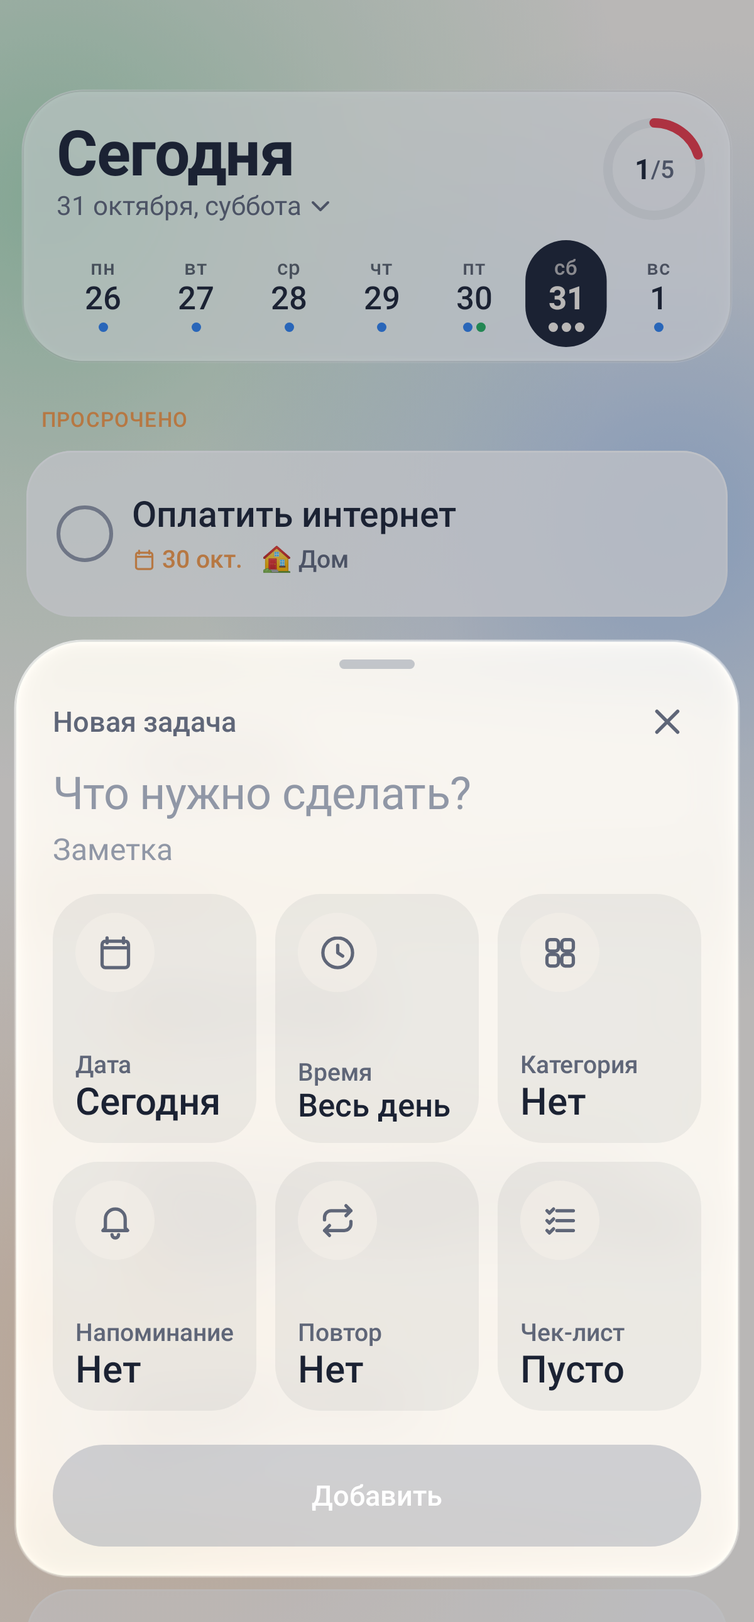
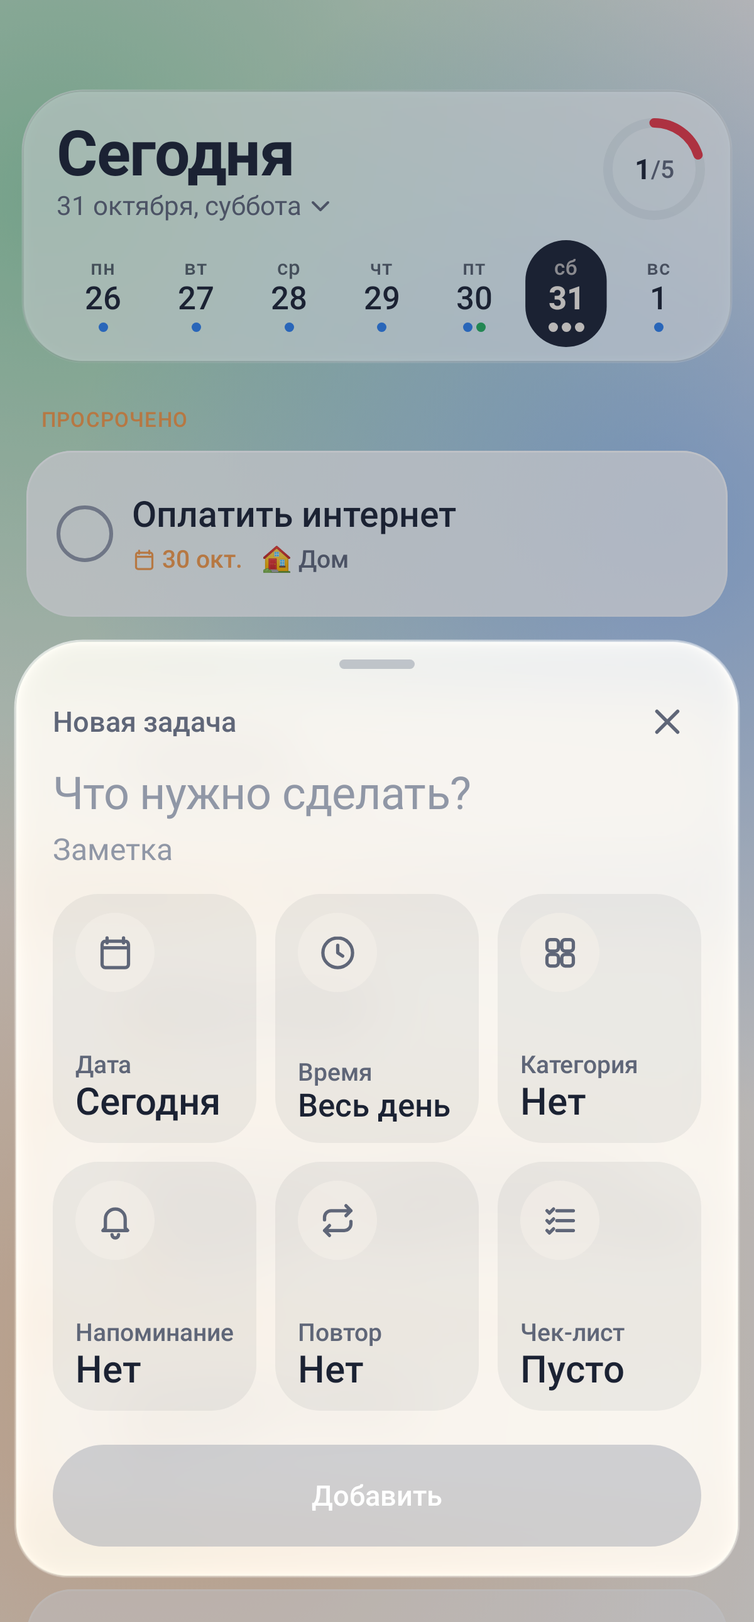
Version 0.7
Editor keeps typed text in the view model, hidden overlays no longer catch touches, weekday fits in the header, 0.36 s settings reveal, stronger background glows.

Changed region(s): [[0.185, 0.2171, 0.8325, 0.2791], [0.2158, 0.3721, 0.6783, 0.4031], [0.5242, 0.0, 0.8325, 0.062]]

diff --git a/app/src/test/java/com/woody/planner/ui/InteractionTest.kt b/app/src/test/java/com/woody/planner/ui/InteractionTest.kt
@@ -5,6 +5,7 @@ import androidx.compose.ui.test.assertCountEquals
 import androidx.compose.ui.test.assertIsFocused
 import androidx.compose.ui.test.assertIsNotFocused
 import androidx.compose.ui.test.hasSetTextAction
+import androidx.compose.ui.test.hasText
 import androidx.compose.ui.test.onFirst
 import androidx.compose.ui.test.onLast
 import androidx.compose.ui.test.onAllNodesWithContentDescription
@@ -29,6 +30,7 @@ import com.woody.planner.data.SwipeStyle
 import com.woody.planner.ui.i18n.LocalLanguage
 import androidx.compose.runtime.CompositionLocalProvider
 import androidx.compose.runtime.getValue
+import androidx.activity.compose.setContent
 import androidx.compose.ui.test.performScrollTo
 import androidx.lifecycle.compose.collectAsStateWithLifecycle
 import kotlinx.coroutines.flow.first
@@ -59,16 +61,19 @@ class InteractionTest {
             container.repository.save(TaskDraft(title = "Купить курицу", date = today))
             container.repository.save(TaskDraft(title = "Разобрать почту", date = today))
         }
-        compose.setContent {
-            // Как в MainActivity: язык берётся из настроек и меняется на лету.
-            val lang by container.settings.language.collectAsStateWithLifecycle(AppLanguage.Russian)
-            CompositionLocalProvider(LocalLanguage provides lang) {
-                WoodyTheme(darkTheme = false) {
-                    WoodyAppShell(container, openDayRequest = null, onOpenDayHandled = {})
-                }
+        compose.setContent { App() }
+        compose.waitForIdle()
+    }
+
+    @androidx.compose.runtime.Composable
+    private fun App() {
+        // Как в MainActivity: язык берётся из настроек и меняется на лету.
+        val lang by container.settings.language.collectAsStateWithLifecycle(AppLanguage.Russian)
+        CompositionLocalProvider(LocalLanguage provides lang) {
+            WoodyTheme(darkTheme = false) {
+                WoodyAppShell(container, openDayRequest = null, onOpenDayHandled = {})
             }
         }
-        compose.waitForIdle()
     }
 
     /** Действия пишут в базу в фоновом потоке — ждём результат, а не только окончания анимаций. */
@@ -257,5 +262,47 @@ class InteractionTest {
         awaitText("Обычный точный будильник, без значка")
         compose.onNodeWithText("Как будильник").performClick()
         compose.waitUntil(5_000) { runBlocking { container.settings.alarmClockReminders.first() } }
+    }
+
+    /**
+     * Сценарий из жалобы: набрали название, нажали плитку — текст не должен стираться, окно должно
+     * открываться, а после закрытия окон весь экран должен оставаться нажимаемым.
+     */
+    @Test
+    fun typedTitleSurvivesTileWindowsAndScreenRebuild() {
+        start()
+        compose.onNodeWithContentDescription("Добавить").performClick()
+        compose.waitForIdle()
+        compose.onAllNodes(hasSetTextAction()).onFirst().performClick()
+        compose.onAllNodes(hasSetTextAction()).onFirst().performTextInput("Купить хлеб")
+        compose.waitForIdle()
+
+        compose.onNodeWithContentDescription("Время").performClick()
+        compose.waitForIdle()
+        compose.onNodeWithTag("param-window").assertExists()
+        compose.onNodeWithText("13:00").performClick()
+        compose.waitForIdle()
+        compose.onAllNodesWithTag("param-window").assertCountEquals(0)
+        compose.onNodeWithText("Купить хлеб").assertExists()
+
+        // Система пересоздала экран (поворот, нехватка памяти) — набранное и выбранное на месте.
+        compose.runOnUiThread { compose.activity.setContent { App() } }
+        compose.waitForIdle()
+        compose.onNodeWithText("Купить хлеб").assertExists()
+        compose.onNodeWithText("13:00").assertExists()
+
+        // Окна снова открываются, фон после них не перехватывает касания.
+        compose.onNodeWithContentDescription("Дата").performClick()
+        compose.waitForIdle()
+        compose.onNodeWithText("Завтра").performClick()
+        compose.waitForIdle()
+        compose.onNodeWithText("Купить хлеб").assertExists()
+        compose.onNodeWithText("Добавить").performClick()
+        compose.waitForIdle()
+        compose.onNodeWithContentDescription("Добавить").performClick()
+        compose.waitForIdle()
+        compose.onNodeWithText("Новая задача").assertExists()
+        // Новое открытие — чистый черновик.
+        compose.onAllNodes(hasSetTextAction() and hasText("Купить хлеб")).assertCountEquals(0)
     }
 }

diff --git a/app/src/main/java/com/woody/planner/ui/editor/TaskEditor.kt b/app/src/main/java/com/woody/planner/ui/editor/TaskEditor.kt
@@ -145,34 +145,32 @@ private enum class Param(private val ru: String, private val en: String) {
 @Composable
 fun TaskEditorSheet(
     draft: TaskDraft?,
+    session: Long,
     categories: List<Category>,
     today: LocalDate,
+    onChange: (TaskDraft) -> Unit,
     onDismiss: () -> Unit,
     onSave: (TaskDraft) -> Unit,
     onDelete: (Long) -> Unit,
     onReminderEnabled: () -> Unit,
 ) {
-    // Рабочая копия черновика: её правят и лист, и окна параметров. Сбрасывается при каждом
-    // новом открытии и живёт, пока лист доигрывает анимацию закрытия.
-    var openedFor by remember { mutableStateOf<TaskDraft?>(null) }
-    var work by remember { mutableStateOf<TaskDraft?>(null) }
-    var param by remember { mutableStateOf<Param?>(null) }
+    // Черновик с правками живёт в EditorViewModel; здесь — только последний показанный,
+    // чтобы лист доиграл анимацию закрытия со своим содержимым.
+    var shown by remember { mutableStateOf(draft) }
+    if (draft != null) shown = draft
+    // Окно параметра принадлежит конкретному открытию редактора.
+    var param by remember(session) { mutableStateOf<Param?>(null) }
     var origin by remember { mutableStateOf(Offset.Unspecified) }
-    if (draft != null && draft !== openedFor) {
-        openedFor = draft
-        work = draft
-        param = null
-    }
     if (draft == null && param != null) param = null
 
     GlassSheet(visible = draft != null, onDismiss = onDismiss) {
-        val current = work ?: return@GlassSheet
+        val current = shown ?: return@GlassSheet
         EditorContent(
             draft = current,
-            isNew = openedFor?.isNew ?: true,
+            isNew = current.isNew,
             categories = categories,
             today = today,
-            onChange = { work = it },
+            onChange = onChange,
             onOpenParam = { p, at ->
                 origin = at
                 param = p
@@ -183,11 +181,11 @@ fun TaskEditorSheet(
         )
     }
 
-    ParamPopup(open = param, origin = origin, onDismiss = { param = null }) { shown ->
-        val current = work ?: return@ParamPopup
-        val update: (TaskDraft) -> Unit = { work = it }
+    ParamPopup(open = param, origin = origin, onDismiss = { param = null }) { shownParam ->
+        val current = shown ?: return@ParamPopup
+        val update: (TaskDraft) -> Unit = onChange
         val close = { param = null }
-        when (shown) {
+        when (shownParam) {
             Param.Date -> DatePanel(current, today, update, close)
             Param.Time -> TimePanel(current, update, close)
             Param.Category -> CategoryPanel(current, categories, update, close)
@@ -527,7 +525,8 @@ private fun ParamPopup(open: Param?, origin: Offset, onDismiss: () -> Unit, cont
                 .fillMaxSize()
                 .graphicsLayer { alpha = progress.value.coerceIn(0f, 1f) }
                 .background(colors.scrim)
-                .clickable(interactionSource = null, indication = null, onClick = onDismiss),
+                // Пока окно сворачивается, касания проходят насквозь — ничто невидимое не перекрывает экран.
+                .then(if (open != null) Modifier.clickable(interactionSource = null, indication = null, onClick = onDismiss) else Modifier),
         )
         var bounds by remember { mutableStateOf(Rect.Zero) }
         Box(
@@ -561,7 +560,13 @@ private fun ParamPopup(open: Param?, origin: Offset, onDismiss: () -> Unit, cont
                     .clip(Shapes.Panel)
                     .background(colors.background)
                     .border(1.dp, colors.cardBorder, Shapes.Panel)
-                    .clickable(interactionSource = null, indication = null) { /* тапы внутри окна не закрывают его */ }
+                    .then(
+                        if (open != null) {
+                            Modifier.clickable(interactionSource = null, indication = null) { /* тапы внутри окна не закрывают его */ }
+                        } else {
+                            Modifier
+                        },
+                    )
                     .heightIn(max = 640.dp)
                     .verticalScroll(rememberScrollState())
                     .padding(horizontal = 18.dp, vertical = 16.dp),

diff --git a/app/src/main/java/com/woody/planner/ui/components/GlassSheet.kt b/app/src/main/java/com/woody/planner/ui/components/GlassSheet.kt
@@ -67,7 +67,8 @@ fun GlassSheet(
             Modifier
                 .fillMaxSize()
                 .background(colors.scrim)
-                .clickable(interactionSource = null, indication = null, onClick = onDismiss),
+                // Во время исчезновения фон не перехватывает касания.
+                .then(if (visible) Modifier.clickable(interactionSource = null, indication = null, onClick = onDismiss) else Modifier),
         )
     }
     AnimatedVisibility(
@@ -83,10 +84,13 @@ fun GlassSheet(
         var backProgress by remember { mutableFloatStateOf(0f) }
         val scope = rememberCoroutineScope()
         val dismissDistance = with(LocalDensity.current) { 110.dp.toPx() }
+        // Быстрый взмах закрывает лист, только если его действительно потянули, а не дёрнуло раскладкой
+        // (например, когда прячется клавиатура и лист съезжает вниз).
+        val flingDistance = with(LocalDensity.current) { 28.dp.toPx() }
         val currentDismiss by rememberUpdatedState(onDismiss)
 
         fun settle(velocity: Float) {
-            if (drag > dismissDistance || velocity > 1600f) {
+            if (drag > dismissDistance || (velocity > 1600f && drag > flingDistance)) {
                 currentDismiss()
             } else {
                 scope.launch { animate(drag, 0f, animationSpec = Motion.bouncy()) { v, _ -> drag = v } }
@@ -157,7 +161,13 @@ fun GlassSheet(
                     .heightIn(max = maxSheetHeight)
                     .fillMaxWidth()
                     .liquidGlass(Shapes.Sheet, tint = colors.background.copy(alpha = if (colors.isDark) 0.74f else 0.66f))
-                    .clickable(interactionSource = null, indication = null) { /* не пропускать тапы к фону */ }
+                    .then(
+                        if (visible) {
+                            Modifier.clickable(interactionSource = null, indication = null) { /* не пропускать тапы к фону */ }
+                        } else {
+                            Modifier
+                        },
+                    )
                     .nestedScroll(nestedScroll)
                     // Участки без прокрутки (ручка, заголовок) тоже тянут лист.
                     .pointerInput(Unit) {

diff --git a/app/src/main/java/com/woody/planner/ui/editor/EditorViewModel.kt b/app/src/main/java/com/woody/planner/ui/editor/EditorViewModel.kt
@@ -16,9 +16,16 @@ import java.time.LocalDate
 class EditorViewModel(private val container: AppContainer) : ViewModel() {
     private val repository = container.repository
 
-    /** Открытый черновик; null — редактор закрыт. */
+    /**
+     * Открытый черновик со всеми правками; null — редактор закрыт. Правки хранятся здесь, а не в UI:
+     * введённый текст не теряется, даже если экран пересоздан системой.
+     */
     private val _draft = MutableStateFlow<TaskDraft?>(null)
     val draft: StateFlow<TaskDraft?> = _draft.asStateFlow()
+
+    /** Номер открытия редактора: по нему UI понимает, что открыт новый черновик, а не правка текущего. */
+    private val _session = MutableStateFlow(0L)
+    val session: StateFlow<Long> = _session.asStateFlow()
 
     val categories: StateFlow<List<Category>> =
         repository.categories.stateIn(viewModelScope, SharingStarted.WhileSubscribed(5_000), emptyList())
@@ -26,11 +33,22 @@ class EditorViewModel(private val container: AppContainer) : ViewModel() {
     val canScheduleExact: Boolean get() = container.reminders.canScheduleExact
 
     fun openNew(day: LocalDate) {
+        // Повторное нажатие «+» при открытом редакторе не стирает набранное.
+        if (_draft.value != null) return
+        _session.value++
         _draft.value = TaskDraft(date = day)
     }
 
     fun openEdit(taskId: Long) = viewModelScope.launch {
-        repository.loadDraft(taskId)?.let { _draft.value = it }
+        if (_draft.value != null) return@launch
+        repository.loadDraft(taskId)?.let {
+            _session.value++
+            _draft.value = it
+        }
+    }
+
+    fun update(draft: TaskDraft) {
+        if (_draft.value != null) _draft.value = draft
     }
 
     fun close() {

diff --git a/app/src/main/java/com/woody/planner/ui/day/DayScreen.kt b/app/src/main/java/com/woody/planner/ui/day/DayScreen.kt
@@ -57,6 +57,7 @@ import androidx.compose.ui.text.style.TextAlign
 import androidx.compose.ui.text.style.TextOverflow
 import androidx.compose.ui.unit.Dp
 import androidx.compose.ui.unit.dp
+import androidx.compose.ui.unit.sp
 import androidx.lifecycle.compose.collectAsStateWithLifecycle
 import com.woody.planner.R
 import com.woody.planner.data.AppLanguage
@@ -198,12 +199,12 @@ private fun DayHeader(vm: DayViewModel, selected: LocalDate, today: LocalDate, m
                     Column {
                         FitText(dayTitle(day, today, LocalLanguage.current), style = MaterialTheme.typography.displaySmall, color = colors.textPrimary)
                         Row(verticalAlignment = Alignment.CenterVertically) {
-                            Text(
+                            // Рядом может стоять кнопка «Сегодня»: дата с днём недели ужимается шрифтом, а не обрезается.
+                            FitText(
                                 daySubtitle(day, today, LocalLanguage.current),
                                 style = MaterialTheme.typography.bodyMedium,
                                 color = colors.textSecondary,
-                                maxLines = 1,
-                                overflow = TextOverflow.Ellipsis,
+                                minSize = 9.sp,
                                 modifier = Modifier.weight(1f, fill = false),
                             )
                             Icon(

diff --git a/app/src/main/java/com/woody/planner/ui/components/AmbientBackground.kt b/app/src/main/java/com/woody/planner/ui/components/AmbientBackground.kt
@@ -30,10 +30,10 @@ fun AmbientBackground(colors: List<Color>, seed: Long, modifier: Modifier = Modi
             color = animateColorAsState(palette[index], Motion.soft(), label = "blob$index"),
             x = animateFloatAsState(BlobAnchors[index].x + random.nextFloat() * 0.3f - 0.15f, Motion.soft(), label = "x$index"),
             y = animateFloatAsState(BlobAnchors[index].y + random.nextFloat() * 0.2f - 0.1f, Motion.soft(), label = "y$index"),
-            radius = 0.55f + random.nextFloat() * 0.25f,
+            radius = 0.68f + random.nextFloat() * 0.3f,
         )
     }
-    val strength = if (theme.isDark) 0.30f else 0.36f
+    val strength = if (theme.isDark) 0.40f else 0.46f
     Canvas(modifier) {
         drawRect(theme.background)
         blobs.forEach { drawBlob(it, strength) }
@@ -54,7 +54,7 @@ private fun DrawScope.drawBlob(blob: Blob, strength: Float) {
     val radius = size.width * blob.radius
     drawCircle(
         brush = Brush.radialGradient(
-            colors = listOf(blob.color.value.copy(alpha = strength), blob.color.value.copy(alpha = strength * 0.4f), Color.Transparent),
+            colors = listOf(blob.color.value.copy(alpha = strength), blob.color.value.copy(alpha = strength * 0.5f), Color.Transparent),
             center = center,
             radius = radius,
         ),

diff --git a/app/src/main/java/com/woody/planner/ui/WoodyAppShell.kt b/app/src/main/java/com/woody/planner/ui/WoodyAppShell.kt
@@ -82,6 +82,7 @@ fun WoodyAppShell(container: AppContainer, openDayRequest: LocalDate?, onOpenDay
     val categoriesVm: CategoriesViewModel = viewModel { CategoriesViewModel(container) }
 
     val draft by editorVm.draft.collectAsStateWithLifecycle()
+    val editorSession by editorVm.session.collectAsStateWithLifecycle()
     val categories by editorVm.categories.collectAsStateWithLifecycle()
     val selectedDay by dayVm.selected.collectAsStateWithLifecycle()
     val today by dayVm.today.collectAsStateWithLifecycle()
@@ -183,8 +184,10 @@ fun WoodyAppShell(container: AppContainer, openDayRequest: LocalDate?, onOpenDay
 
             TaskEditorSheet(
                 draft = draft,
+                session = editorSession,
                 categories = categories,
                 today = today,
+                onChange = editorVm::update,
                 onDismiss = editorVm::close,
                 onSave = editorVm::save,
                 onDelete = { id ->

diff --git a/app/src/main/java/com/woody/planner/ui/settings/SettingsScreen.kt b/app/src/main/java/com/woody/planner/ui/settings/SettingsScreen.kt
@@ -241,8 +241,8 @@ fun SettingsPage(
 
 /** Почти линейная кривая: скорость в середине лишь на треть выше, чем у краёв. */
 private val EvenEasing = CubicBezierEasing(0.3f, 0.15f, 0.7f, 0.85f)
-private const val RevealMs = 500
-private const val CollapseMs = 420
+private const val RevealMs = 360
+private const val CollapseMs = 300
 
 /** Скруглённый прямоугольник, растущий из [from] (кнопка) до размеров экрана по [progress]. */
 private class RevealShape(private val from: Rect, private val progress: Float, private val extraCorner: Float) : Shape {

diff --git a/HANDOFF.md b/HANDOFF.md
@@ -1,6 +1,6 @@
 # Woody — передача проекта
 
-Состояние на **v0.6** (31.10.2026). Репозиторий: https://github.com/DenHaIz/Woody-ToDo, ветка `main`, релизы с APK — во вкладке Releases.
+Состояние на **v0.7** (31.10.2026). Репозиторий: https://github.com/DenHaIz/Woody-ToDo, ветка `main`, релизы с APK — во вкладке Releases.
 
 ## Что это
 Ежедневник для Android 12+ (minSdk 31): задачи на день, повторы, чек-листы, напоминания.
@@ -38,13 +38,15 @@ app/src/main/java/com/woody/planner/
 
 ### Интерфейс и жесты
 - **Одна кнопка «+»** (`WoodyFab`): касание — новая задача, удержание — настройки. Подсказка про удержание показывается, пока пользователь ни разу им не воспользовался (`menu_hint_seen` в DataStore).
-- **Настройки** (`SettingsPage`) вырастают из кнопки «+» и сворачиваются в неё: `RevealShape` растит скруглённый прямоугольник от границ кнопки (их отдаёт `WoodyFab.onButtonBounds`) до экрана, в начале страница окрашена в цвет кнопки. Анимация — `tween` 500 мс (раскрытие) / 420 мс (сворачивание) с почти линейной кривой `EvenEasing` (владелец просил равномерно, без затяжного торможения). Порядок: категории (свёрнуто — 3 последних изменённых, `recent_categories` в DataStore; по нажатию — все), оформление, язык, свайп, напоминания, батарея.
+- **Настройки** (`SettingsPage`) вырастают из кнопки «+» и сворачиваются в неё: `RevealShape` растит скруглённый прямоугольник от границ кнопки (их отдаёт `WoodyFab.onButtonBounds`) до экрана, в начале страница окрашена в цвет кнопки. Анимация — `tween` 360 мс (раскрытие) / 300 мс (сворачивание) с почти линейной кривой `EvenEasing` (владелец просил равномерно, без затяжного торможения, и быстро — 0,36 с). Порядок: категории (свёрнуто — 3 последних изменённых, `recent_categories` в DataStore; по нажатию — все), оформление, язык, свайп, напоминания, батарея.
 - **Язык**: русский (по умолчанию) или английский, переключается в настройках мгновенно, без перезапуска. Строки не в `strings.xml`, а парой прямо в коде: `tr("Готово", "Done")` в composable, `lang.pick(ru, en)` вне его (ViewModel, уведомления, enum). `MainActivity` отдаёт `LocalLanguage` из DataStore и не рисует первый кадр, пока язык и тема не прочитаны. Стартовые категории, которые пользователь не переименовал, переводятся вместе с языком (`translateDefaultCategories`). Канал уведомлений переименовывается при запуске.
-- **Редактор задачи**: название + заметка и 6 больших плиток (дата, время, категория, напоминание, повтор, чек-лист) со значениями по умолчанию. Пока поле ввода в фокусе (печатают), плитки ужимаются, остаются дата/время/категория, а напоминание/повтор/чек-лист прячутся за полоской «Дополнительно». Клавиатуру спрятали жестом «назад» — фокус снимается и плитки возвращаются. Плитка открывает `ParamPopup` — окно, вырастающее из центра плитки; у окна плотный фон без haze-стекла (стекло в масштабируемом слое ненадёжно на устройствах). Поле ввода не получает фокус при открытии: клавиатура только по нажатию. Рабочая копия черновика живёт в `TaskEditorSheet` (сбрасывается по ссылке на новый черновик).
+- **Редактор задачи**: название + заметка и 6 больших плиток (дата, время, категория, напоминание, повтор, чек-лист) со значениями по умолчанию. Пока поле ввода в фокусе (печатают), плитки ужимаются, остаются дата/время/категория, а напоминание/повтор/чек-лист прячутся за полоской «Дополнительно». Клавиатуру спрятали жестом «назад» — фокус снимается и плитки возвращаются. Плитка открывает `ParamPopup` — окно, вырастающее из центра плитки; у окна плотный фон без haze-стекла (стекло в масштабируемом слое ненадёжно на устройствах). Поле ввода не получает фокус при открытии: клавиатура только по нажатию. Черновик со всеми правками живёт в `EditorViewModel` (`update`), а не в UI: в 0.6 на телефоне после ввода текста нажатие на плитку иногда стирало текст и экран переставал реагировать — набранное хранилось только в `remember` и терялось при пересоздании экрана. Новое открытие редактора отмечается номером `session` (по нему сбрасывается открытое окно параметра); повторное «+» при открытом редакторе ничего не стирает.
+- **Невидимые слои не ловят касания**: фон листа, сам лист и окно параметра принимают нажатия только пока видимы — во время исчезновения касания проходят насквозь. Лист закрывается быстрым взмахом, только если его действительно потянули (≥ 28 dp), а не дёрнуло раскладкой при скрытии клавиатуры.
 - **Лист** (`GlassSheet`): появляется от кнопки, закрывается свайпом вниз из любого места (NestedScrollConnection: остаток прокрутки вниз тянет лист), тапом по фону, «назад» с предпросмотром.
 - **Свайп карточки** (`SwipeableTaskCard`): вправо — готово/вернуть, влево — на завтра / пропустить повтор / удалить выполненную. Три стиля из настроек: «Классика», «Капля» (прозрачная капля воды тянется перешейком от края карточки, на пороге отрывается и дрожит, после срабатывания лопается всплеском), «Книжка». Подложка рисуется только вне карточки (карточки полупрозрачные). При отпускании действие фиксируется (`locked`), а возврат не перелетает через ноль — иначе мелькал цвет второго действия (после «Готово» действие влево меняется на красное «Удалить»).
 - **Стекло** (`liquidGlass`): без отклика на касание (давал сильный засвет). Нажатия подсвечивает `bouncyClickable(glowColor = …)` — мягкий отсвет цвета кнопки.
-- Шапка дня меряет высоту *снаружи* `statusBarsPadding` — иначе список уезжает под неё. Заголовки — `FitText` (сжимается в одну строку), названия задач — `LineBreak.Heading`.
+- Шапка дня меряет высоту *снаружи* `statusBarsPadding` — иначе список уезжает под неё. Заголовки — `FitText` (сжимается в одну строку), названия задач — `LineBreak.Heading`. Подпись с датой и днём недели тоже `FitText`: рядом может стоять кнопка «Сегодня», и «пятница» раньше обрезалась.
+- Фон (`AmbientBackground`) — три цветных ореола; в 0.7 они крупнее (радиус 0.68–0.98 ширины) и насыщеннее (альфа 0.46 / 0.40 в тёмной теме).
 - Мало задач в дне (≤ 3) — карточки крупнее (`TaskCard(large = true)`).
 
 ### Батарея и точность напоминаний
@@ -80,7 +82,7 @@ app/src/main/java/com/woody/planner/
 ## Тесты
 - `domain/*Test` — повторы, сборка дня, расчёт напоминаний.
 - `ui/InteractionTest` — настоящие жесты: свайпы во всех стилях, короткий свайп, закрытие листа из середины, удержание «+», редактор без фокуса, каждая из 6 плиток открывает своё окно после ввода названия, сворачивание плиток при вводе и полоска «Дополнительно», раскрытие категорий. Действия пишут в базу в фоне — проверки ждут результат (`awaitText`). Плитки находятся по `contentDescription` (= название параметра), окно параметра — по тегу `param-window`.
-- `ui/InteractionTest` также: переключение языка меняет весь интерфейс сразу (и стартовые категории), переключатель «Как будильник».
+- `ui/InteractionTest` также: переключение языка меняет весь интерфейс сразу (и стартовые категории), переключатель «Как будильник», набранное название переживает окна параметров и пересоздание экрана, а после окон экран остаётся нажимаемым.
 - `reminders/ReminderFlowTest` — цепочка напоминания: один будильник-часы на нужную минуту → срабатывание → уведомление в канале со звуком; режим без будильника-часов; пробное напоминание; язык уведомления и канала.
 - `screenshots/ScreenshotTest` — экраны, окна параметров, раскрытие настроек, карточка напоминаний, английский интерфейс (`en_*`) и покадровые свайпы (только с `-Pscreenshots`).
 
@@ -99,10 +101,11 @@ Release подписан **debug-ключом** из `.toolchain/android-user-ho
 - **0.4** — редактор из плиток с окнами параметров, настройки из «+», категории сверху, новая «Капля», без мигания «Книжки», точные напоминания и кнопка проверки.
 - **0.5** — крупные плитки, режим ввода с полоской «Дополнительно», плотные окна параметров, более плавное раскрытие настроек.
 - **0.6** — напоминания как будильник и помощь для Xiaomi/Huawei/Oppo/Vivo (автозапуск, «Нет ограничений»), английский язык, описание «Капли» переносится, равномерное и более быстрое раскрытие настроек.
+- **0.7** — исправлено стирание текста и «зависание» редактора после нажатия на плитку, день недели в шапке не обрезается, настройки раскрываются за 0,36 с, фон контрастнее с более крупными ореолами.
 
 ## Известные ограничения и что дальше
 - Ничего не проверялось на реальном устройстве разработчиком — только пользователем по APK.
-- Ждут подтверждения на телефоне владельца: напоминания при закрытом приложении (0.6: режим будильника + автозапуск/«Нет ограничений» на прошивках). Проверять кнопкой «Проверить напоминание» и смахнуть Woody из недавних. Если не пришло — узнать модель телефона и версию прошивки; экраны прошивок в `OemPower` подобраны по известным путям и на новых версиях могут не открыться (тогда открывается карточка приложения).
+- Ждут подтверждения на телефоне владельца: (1) редактор после ввода текста и нажатия на плитки (0.7; в Robolectric сбой не воспроизводился, исправлены вероятные причины — см. «Редактор задачи»); (2) напоминания при закрытом приложении (0.6: режим будильника + автозапуск/«Нет ограничений» на прошивках). Проверять кнопкой «Проверить напоминание» и смахнуть Woody из недавних. Если не пришло — узнать модель телефона и версию прошивки; экраны прошивок в `OemPower` подобраны по известным путям и на новых версиях могут не открыться (тогда открывается карточка приложения).
 - Строки — парами RU/EN в Kotlin, а не в `strings.xml`: третий язык потребует перехода на ресурсы или расширения `tr`.
 - Нет Baseline Profile (нужен телефон для генерации) — можно ускорить первый запуск.
 - Lint: `targetSdk 36` (есть 37), доступен AGP 9.5.0, предупреждение `allowBackup`.
